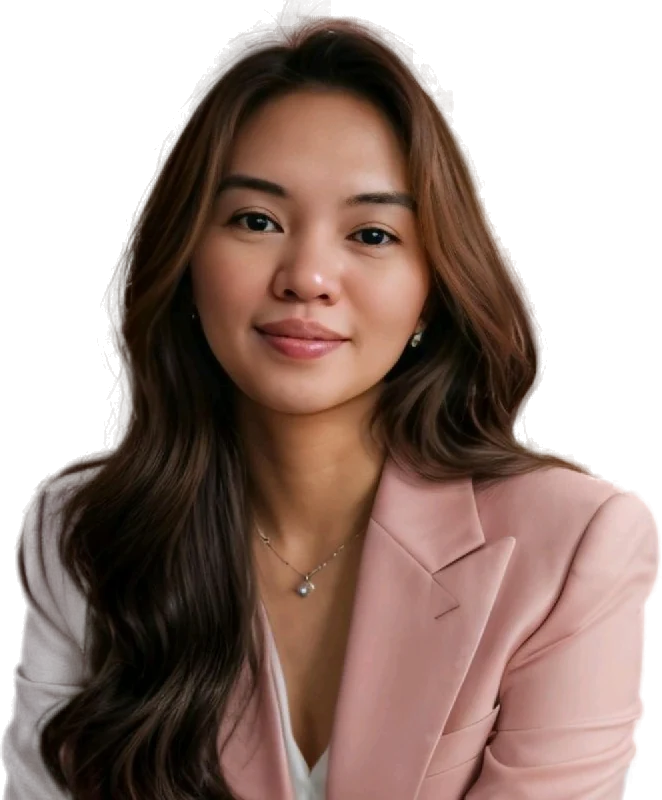
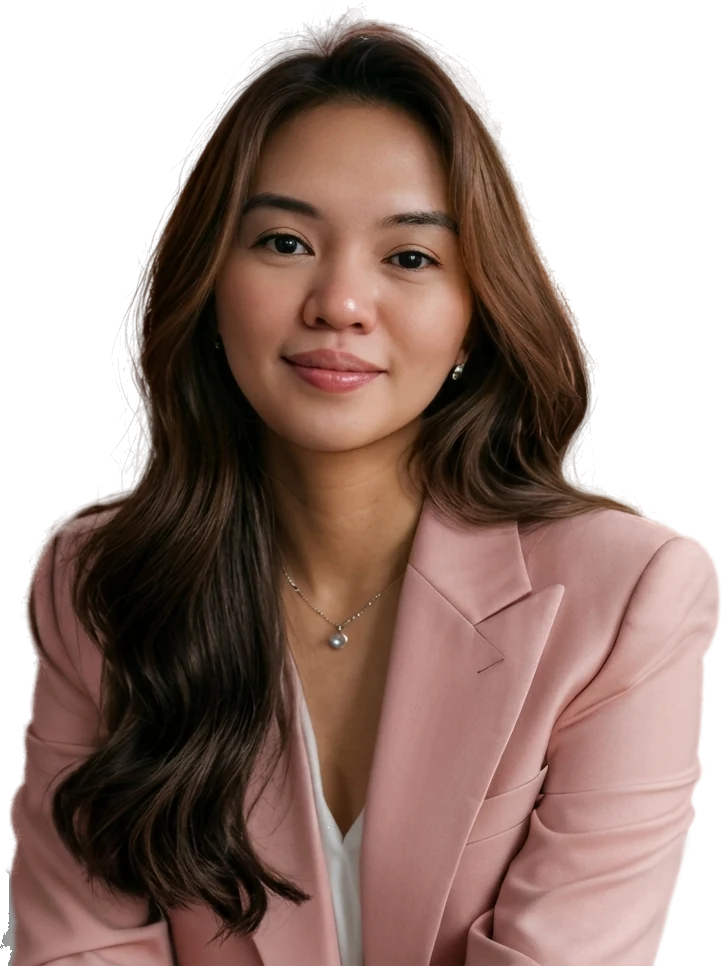
Higher-resolution portrait and cutout
Claude-Session: https://claude.ai/code/session_01Jtb5nH6CgS6nv1xz9CLg6p

diff --git a/executive-portfolio/index.html b/executive-portfolio/index.html
@@ -43,7 +43,7 @@
   <figure class="hero-art" style="margin:0">
    <div class="ha-card" aria-hidden="true"></div>
    <div class="ha-fan" aria-hidden="true"><img class="hf1" src="img/cases/atlas-0.jpg" alt=""><img class="hf2" src="img/cases/pto-1.jpg" alt=""><img class="hf3" src="img/cases/qa-0.jpg" alt=""></div>
-   <img class="ha-cut" src="img/nae-cutout.webp" alt="Nae Kitakado, AI and operations automation consultant, in a blush blazer" width="662" height="800" fetchpriority="high">
+   <img class="ha-cut" src="img/nae-cutout.webp" alt="Nae Kitakado, AI and operations automation consultant, in a blush blazer" width="722" height="966" fetchpriority="high">
    <span class="ha-sig" aria-hidden="true">Nae Kitakado</span>
    <img class="d3 ha-knot" src="img/3d/knot.png" alt="" aria-hidden="true"><img class="d3 ha-bars" src="img/3d/bars.png" alt="" aria-hidden="true"><img class="d3 ha-orb" src="img/3d/orb.png" alt="" aria-hidden="true"><img class="d3 ha-gem" src="img/3d/gem.png" alt="" aria-hidden="true">
    <div class="chipcard chip-a"><b>Since 2011</b>remote operations</div>
@@ -182,7 +182,7 @@
 <section id="about"><div class="wrap about-grid">
  <div class="about-photos">
   <div class="fan" aria-hidden="true"><img class="f1" src="img/cases/atlas-0.jpg" alt="" loading="lazy"><img class="f2" src="img/cases/pto-1.jpg" alt="" loading="lazy"><img class="f3" src="img/cases/qa-0.jpg" alt="" loading="lazy"></div>
-  <div class="main"><img src="img/nae-portrait.jpg" alt="Portrait of Nae Kitakado" width="720" height="720" loading="lazy"></div>
+  <div class="main"><img src="img/nae-portrait.jpg" alt="Portrait of Nae Kitakado" width="720" height="900" loading="lazy"></div>
   <img class="d3 a-knot" src="img/3d/knot.png" alt="" aria-hidden="true" loading="lazy"><img class="d3 a-bars" src="img/3d/bars.png" alt="" aria-hidden="true" loading="lazy"><img class="d3 a-ring" src="img/3d/ring.png" alt="" aria-hidden="true" loading="lazy">
  </div>
  <div>

diff --git a/executive-portfolio/styles.css b/executive-portfolio/styles.css
@@ -372,7 +372,7 @@ html[data-theme=dark] .wtabs button[aria-selected=true]{background:#EACBC8;color
 .ha-fan .hf1{left:-4%;top:17%;transform:rotate(-14deg)}
 .ha-fan .hf2{right:-5%;top:14%;transform:rotate(12deg)}
 .ha-fan .hf3{left:25%;top:6%;transform:rotate(-3deg);width:50%}
-.ha-cut{position:absolute;left:14%;width:72%;height:auto;bottom:0;z-index:2;-webkit-mask-image:linear-gradient(to bottom,transparent 0,#000 7%);mask-image:linear-gradient(to bottom,transparent 0,#000 7%);filter:drop-shadow(0 10px 22px rgba(23,43,73,.28))}
+.ha-cut{position:absolute;left:14%;width:72%;height:auto;bottom:0;z-index:2;filter:drop-shadow(0 10px 22px rgba(23,43,73,.28))}
 .ha-sig{position:absolute;left:0;right:0;text-align:center;bottom:4%;z-index:3;font:400 clamp(2.2rem,3.8vw,3.1rem)/1 Allura,"Segoe Script","Brush Script MT",cursive;color:#fff;text-shadow:0 2px 12px rgba(23,43,73,.55);transform:rotate(-6deg);pointer-events:none;white-space:nowrap}
 .hero-art .d3{z-index:4}
 .ha-knot{width:25%;left:-13%;bottom:4%}
